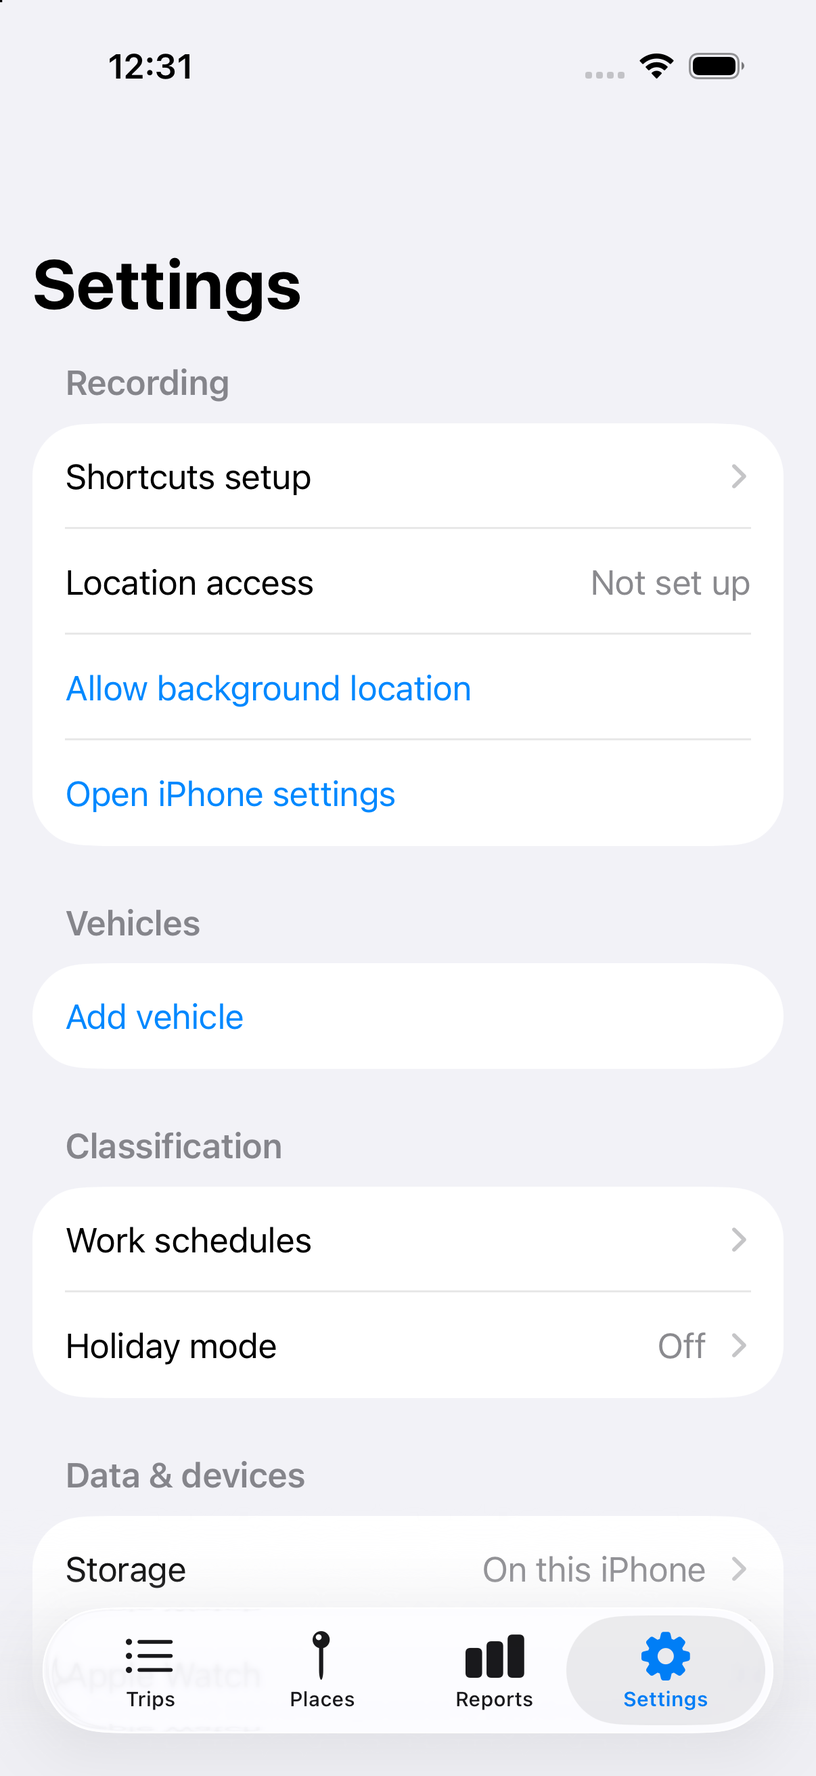
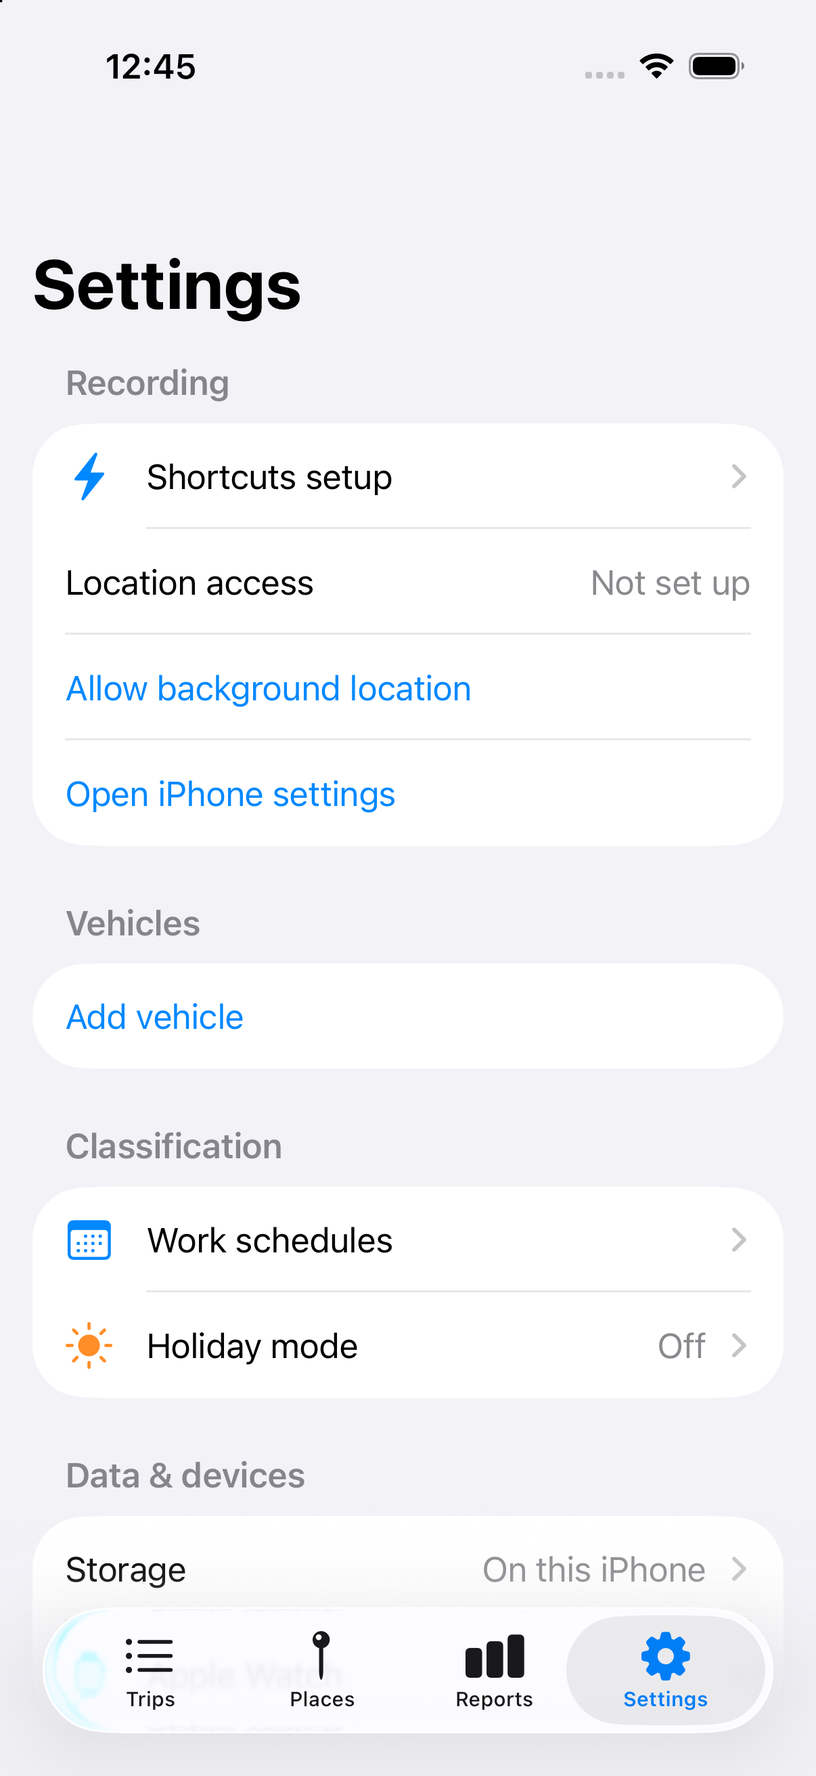
Add vehicle dashboard, route previews and purpose colors

diff --git a/Ritme/Sources/TripsView.swift b/Ritme/Sources/TripsView.swift
@@ -8,6 +8,7 @@ struct TripsView: View {
     @State private var search = ""
     @State private var showingSearch = false
     @State private var manual = false
+    @State private var addVehicle = false
     @State private var confirmStop = false
     private var visible: [Trip] {
         store.trips.filter { trip in
@@ -31,12 +32,15 @@ struct TripsView: View {
                     }
                 }
                 Section {
-                    recordingStatus
-                    HStack(spacing: 24) {
-                        total("Today", meters: todayTrips.reduce(0) { $0 + $1.distanceMeters })
+                    VStack(alignment: .leading, spacing: 16) {
+                        recordingStatus
                         Divider()
-                        total("Work", meters: todayTrips.filter { $0.kind == .work }.reduce(0) { $0 + $1.distanceMeters })
-                    }.padding(.vertical, 4)
+                        HStack(spacing: 24) {
+                            total("Today", meters: todayTrips.reduce(0) { $0 + $1.distanceMeters })
+                            total("Work today", meters: todayTrips.filter { $0.kind == .work }.reduce(0) { $0 + $1.distanceMeters })
+                        }
+                    }.padding(.vertical, 6)
+                        .listRowBackground(Style.accent.opacity(0.07))
                 }
                 if store.preferences.holidayActive {
                     Section {
@@ -72,7 +76,7 @@ struct TripsView: View {
                     Section {
                         ForEach(visible.filter { Calendar.current.isDate($0.startedAt, inSameDayAs: day) }) { trip in
                             VStack(alignment: .leading, spacing: 10) {
-                                NavigationLink { TripDetailView(trip: trip) } label: { TripSummary(trip: trip) }
+                                NavigationLink { TripDetailView(trip: trip) } label: { TripSummary(trip: trip, showRoute: trip.id == visible.first?.id) }
                                 if trip.kind == .unclassified { KindButtons(selected: trip.kind) { store.mark(trip, as: $0) } }
                             }.padding(.vertical, 4)
                                 .swipeActions(edge: .leading, allowsFullSwipe: false) {
@@ -89,22 +93,54 @@ struct TripsView: View {
                 ToolbarItem(placement: .topBarTrailing) { Button { manual = true } label: { Image(systemName: "plus") }.accessibilityLabel("Add a manual trip") }
             }
             .sheet(isPresented: $manual) { ManualTripView() }
+            .sheet(isPresented: $addVehicle) { AddVehicleView() }
             .confirmationDialog("Finish this trip?", isPresented: $confirmStop, titleVisibility: .visible) { Button("Finish and save") { recorder.stop() } }
         }
     }
     private var recordingStatus: some View {
-        VStack(alignment: .leading, spacing: 12) {
+        VStack(alignment: .leading, spacing: 16) {
             HStack(spacing: 12) {
-                Circle().fill(store.activeTrip == nil ? Color.secondary : Style.accent).frame(width: 7, height: 7).accessibilityHidden(true)
-                VStack(alignment: .leading, spacing: 3) {
-                    Text(store.activeTrip == nil ? "Not recording" : "Trip in progress").font(.subheadline.weight(.semibold))
-                    Text(store.selectedVehicle?.name ?? "No vehicle selected").font(.caption).foregroundStyle(.secondary)
+                PlaceSymbol(symbol: "car.fill")
+                VStack(alignment: .leading, spacing: 4) {
+                    Text(store.activeTrip == nil ? "CURRENT VEHICLE" : "RECORDING")
+                        .font(.caption2.weight(.semibold)).tracking(0.8).foregroundStyle(.secondary)
+                    if let active = store.activeTrip {
+                        Text(store.vehicleName(for: active)).font(.headline)
+                    } else if let vehicle = store.selectedVehicle {
+                        Menu {
+                            ForEach(store.vehicles) { vehicle in
+                                Button {
+                                    store.preferences.selectedVehicleID = vehicle.id; store.save()
+                                } label: {
+                                    if vehicle.id == store.selectedVehicle?.id { Label(vehicle.name, systemImage: "checkmark") }
+                                    else { Text(vehicle.name) }
+                                }
+                            }
+                            Button("Add vehicle", systemImage: "plus") { addVehicle = true }
+                        } label: {
+                            HStack(spacing: 5) {
+                                Text(vehicle.name).font(.headline).foregroundStyle(.primary).lineLimit(1)
+                                Image(systemName: "chevron.down").font(.caption2.weight(.semibold)).foregroundStyle(Style.accent)
+                            }
+                        }
+                        .buttonStyle(.borderless).accessibilityLabel("Select vehicle, current vehicle \(vehicle.name)")
+                    } else {
+                        Button("Add your car") { addVehicle = true }.font(.headline).buttonStyle(.borderless)
+                    }
                 }
+                Spacer(minLength: 0)
+            }
+            HStack {
+                HStack(spacing: 6) {
+                    Circle().fill(store.activeTrip == nil ? Color.secondary : Color.green).frame(width: 6, height: 6)
+                    Text(store.activeTrip == nil ? "Not recording" : "Trip in progress").font(.subheadline).foregroundStyle(.secondary)
+                }.accessibilityElement(children: .combine)
                 Spacer()
                 if store.activeTrip == nil {
-                    Button("Start") { recorder.start() }.buttonStyle(.bordered).accessibilityLabel("Start recording a trip").accessibilityIdentifier("startTrip")
+                    Button { recorder.start() } label: { Label("Start trip", systemImage: "play.fill").font(.subheadline.weight(.semibold)) }
+                        .buttonStyle(.borderedProminent).accessibilityLabel("Start recording a trip").accessibilityIdentifier("startTrip")
                 } else {
-                    Button("Finish") { confirmStop = true }.buttonStyle(.bordered).accessibilityLabel("Finish recording this trip")
+                    Button("Finish trip") { confirmStop = true }.buttonStyle(.borderedProminent).accessibilityLabel("Finish recording this trip")
                 }
             }
             if let trip = store.activeTrip {
@@ -112,14 +148,14 @@ struct TripsView: View {
                     Text("\(Format.km(trip.distanceMeters)) km").monospacedDigit()
                     Spacer()
                     TimelineView(.periodic(from: .now, by: 60)) { _ in Text(Format.duration(trip.duration)).monospacedDigit() }
-                }.font(.subheadline)
+                }.font(.title3.weight(.semibold))
                 HStack {
                     Text(recorder.status).font(.caption).foregroundStyle(.secondary)
                     Spacer()
                     Button("Resume GPS") { recorder.resume() }.font(.caption).buttonStyle(.borderless)
                 }
             }
-        }.padding(.vertical, 3)
+        }
     }
     private func total(_ title: String, meters: Double) -> some View {
         VStack(alignment: .leading, spacing: 3) {
@@ -136,6 +172,14 @@ struct TripsView: View {
 
 struct TripSummary: View {
     var trip: Trip
+    var showRoute = false
+    private var previewRect: MKMapRect {
+        let rect = trip.points.map { point in
+            let position = MKMapPoint(point.coordinate)
+            return MKMapRect(x: position.x, y: position.y, width: 1, height: 1)
+        }.reduce(MKMapRect.null) { $0.union($1) }
+        return rect.insetBy(dx: -max(rect.size.width * 0.2, 500), dy: -max(rect.size.height * 0.2, 500))
+    }
     var body: some View {
         VStack(alignment: .leading, spacing: 8) {
             HStack {
@@ -145,14 +189,22 @@ struct TripSummary: View {
                 KindBadge(kind: trip.kind)
             }
             HStack(alignment: .top, spacing: 12) {
-                VStack(alignment: .leading, spacing: 5) {
-                    Text(trip.origin).font(.subheadline).foregroundStyle(.secondary)
-                    Text(trip.destination).font(.body.weight(.medium))
-                }.lineLimit(2).frame(maxWidth: .infinity, alignment: .leading)
+                RouteStops(origin: trip.origin, destination: trip.destination, color: Style.color(trip.kind))
+                    .frame(maxWidth: .infinity, alignment: .leading)
                 VStack(alignment: .trailing, spacing: 5) {
                     Text("\(Format.km(trip.distanceMeters)) km").font(.subheadline.weight(.semibold)).monospacedDigit()
                     Text(Format.duration(trip.duration)).font(.caption).foregroundStyle(.secondary)
                 }.fixedSize(horizontal: true, vertical: false)
+            }
+            if showRoute && !trip.points.isEmpty {
+                Map(initialPosition: .rect(previewRect)) {
+                    MapPolyline(coordinates: trip.points.map(\.coordinate)).stroke(Style.accent, lineWidth: 3)
+                    if let first = trip.points.first { Annotation("", coordinate: first.coordinate) { Circle().fill(.white).frame(width: 9, height: 9).overlay(Circle().stroke(Style.accent, lineWidth: 2)) } }
+                    if let last = trip.points.last { Annotation("", coordinate: last.coordinate) { Circle().fill(Style.accent).frame(width: 10, height: 10).overlay(Circle().stroke(.white, lineWidth: 2)) } }
+                }.mapStyle(.standard(elevation: .flat, pointsOfInterest: .excludingAll))
+                    .mapControlVisibility(.hidden).frame(height: 90)
+                    .clipShape(RoundedRectangle(cornerRadius: 10)).allowsHitTesting(false)
+                    .accessibilityHidden(true)
             }
         }.accessibilityElement(children: .combine)
     }

diff --git a/Ritme/Sources/SettingsView.swift b/Ritme/Sources/SettingsView.swift
@@ -10,7 +10,7 @@ struct SettingsView: View {
         NavigationStack {
             Form {
                 Section("Recording") {
-                    NavigationLink("Shortcuts setup") { AutomationSetupView() }
+                    NavigationLink { AutomationSetupView() } label: { Label { Text("Shortcuts setup") } icon: { Image(systemName: "bolt.fill").foregroundStyle(Style.accent) } }
                     LabeledContent("Location access", value: locationTitle)
                     Button("Allow background location") { recorder.requestAlways() }
                     Button("Open iPhone settings") { if let url = URL(string: UIApplication.openSettingsURLString) { UIApplication.shared.open(url) } }
@@ -24,19 +24,19 @@ struct SettingsView: View {
                     Button("Add vehicle") { addVehicle = true }
                 }
                 Section("Classification") {
-                    NavigationLink("Work schedules") { RulesView() }
-                    NavigationLink { HolidayView() } label: { LabeledContent("Holiday mode", value: store.preferences.holidayActive ? "On" : "Off") }
+                    NavigationLink { RulesView() } label: { Label { Text("Work schedules") } icon: { Image(systemName: "calendar").foregroundStyle(Style.accent) } }
+                    NavigationLink { HolidayView() } label: { LabeledContent { Text(store.preferences.holidayActive ? "On" : "Off") } label: { Label { Text("Holiday mode") } icon: { Image(systemName: "sun.max.fill").foregroundStyle(.orange) } } }
                 }
                 Section("Data & devices") {
                     NavigationLink { DataSettingsView() } label: { LabeledContent("Storage", value: store.cloudEnabled ? "iCloud" : "On this iPhone") }
-                    NavigationLink("Apple Watch") { WatchSettingsView() }
+                    NavigationLink { WatchSettingsView() } label: { Label { Text("Apple Watch") } icon: { Image(systemName: "applewatch").foregroundStyle(Style.accent) } }
                 }
                 Section {
                     Button("Load sample trips") { store.loadDemo() }.disabled(store.trips.contains(where: \.isDemo))
                     if store.trips.contains(where: \.isDemo) { Button("Remove sample trips") { store.deleteDemo() } }
                 } header: { Text("Sample data") } footer: { Text("Sample trips are excluded from mileage totals and exports.") }
                 Section {
-                    LabeledContent("Version", value: "0.1.0 (1)")
+                    LabeledContent("Version", value: "\(Bundle.main.object(forInfoDictionaryKey: "CFBundleShortVersionString") as? String ?? "—") (\(Bundle.main.object(forInfoDictionaryKey: "CFBundleVersion") as? String ?? "—"))")
                     Link("GitHub", destination: URL(string: "https://github.com/MiranoVerhoef/Ritme")!)
                 } header: { Text("Ritme") } footer: { Text("Development beta") }
             }.navigationTitle("Settings").sheet(isPresented: $addVehicle) { AddVehicleView() }

diff --git a/Ritme/Sources/Design.swift b/Ritme/Sources/Design.swift
@@ -3,7 +3,13 @@ import SwiftUI
 enum Style {
     static let accent = Color(uiColor: .systemBlue)
     static let canvas = Color(uiColor: .systemGroupedBackground)
-    static func color(_ kind: TripKind) -> Color { kind == .unclassified ? Color(uiColor: .systemOrange) : .secondary }
+    static func color(_ kind: TripKind) -> Color {
+        switch kind {
+        case .work: Color(uiColor: .systemBlue)
+        case .personal: Color(uiColor: .systemTeal)
+        case .unclassified: Color(uiColor: .systemOrange)
+        }
+    }
 }
 
 struct Card<Content: View>: View {
@@ -18,8 +24,10 @@ struct Card<Content: View>: View {
 struct KindBadge: View {
     var kind: TripKind
     var body: some View {
-        Label(kind.title, systemImage: kind.icon).font(.caption)
+        Label(kind.title, systemImage: kind.icon).font(.caption.weight(.medium))
             .foregroundStyle(Style.color(kind))
+            .padding(.horizontal, 8).padding(.vertical, 5)
+            .background(Style.color(kind).opacity(0.10), in: Capsule())
     }
 }
 
@@ -43,8 +51,38 @@ struct KindButtons: View {
                         Text(kind.title)
                         if selected == kind { Image(systemName: "checkmark").font(.caption.weight(.semibold)) }
                     }.font(.subheadline).frame(maxWidth: .infinity, minHeight: 30)
-                }.buttonStyle(.bordered).tint(selected == kind ? Style.accent : Color.secondary)
+                }.buttonStyle(.bordered).tint(Style.color(kind))
             }
+        }
+    }
+}
+
+struct PlaceSymbol: View {
+    var symbol: String
+    var color: Color = Style.accent
+    var body: some View {
+        Image(systemName: symbol).font(.system(size: 19, weight: .medium))
+            .foregroundStyle(color).frame(width: 42, height: 42)
+            .background(color.opacity(0.10), in: RoundedRectangle(cornerRadius: 12))
+            .accessibilityHidden(true)
+    }
+}
+
+struct RouteStops: View {
+    var origin: String
+    var destination: String
+    var color: Color
+    var body: some View {
+        HStack(spacing: 10) {
+            VStack(spacing: 3) {
+                Circle().strokeBorder(Color.secondary, lineWidth: 1.5).frame(width: 7, height: 7)
+                Rectangle().fill(Color.secondary.opacity(0.25)).frame(width: 1, height: 17)
+                Circle().fill(color).frame(width: 7, height: 7)
+            }.accessibilityHidden(true)
+            VStack(alignment: .leading, spacing: 7) {
+                Text(origin).font(.subheadline).foregroundStyle(.secondary)
+                Text(destination).font(.body.weight(.medium))
+            }.lineLimit(2)
         }
     }
 }

diff --git a/Ritme/Sources/ReportsView.swift b/Ritme/Sources/ReportsView.swift
@@ -80,14 +80,33 @@ struct ReportsView: View {
                     HStack(alignment: .firstTextBaseline) {
                         VStack(alignment: .leading, spacing: 4) {
                             Text("Total distance").font(.subheadline).foregroundStyle(.secondary)
-                            Text("\(Format.km(trips.reduce(0) { $0 + $1.distanceMeters })) km").font(.title2.weight(.semibold)).monospacedDigit()
+                            Text("\(Format.km(trips.reduce(0) { $0 + $1.distanceMeters })) km").font(.largeTitle.weight(.semibold)).monospacedDigit().foregroundStyle(Style.accent)
                         }
                         Spacer()
                         Text("\(trips.count) trips").font(.subheadline).foregroundStyle(.secondary)
                     }.padding(.vertical, 4)
+                    let distance = trips.reduce(0) { $0 + $1.distanceMeters }
+                    if distance > 0 {
+                        GeometryReader { geometry in
+                            HStack(spacing: 2) {
+                                ForEach(TripKind.allCases) { kind in
+                                    let fraction = trips.filter { $0.kind == kind }.reduce(0) { $0 + $1.distanceMeters } / distance
+                                    if fraction > 0 {
+                                        RoundedRectangle(cornerRadius: 3).fill(Style.color(kind))
+                                            .frame(width: max(0, geometry.size.width - 4) * fraction)
+                                    }
+                                }
+                            }
+                        }.frame(height: 9).accessibilityHidden(true)
+                            .listRowSeparator(.hidden)
+                    }
                     ForEach(TripKind.allCases) { kind in
-                        LabeledContent(kind.title, value: "\(Format.km(trips.filter { $0.kind == kind }.reduce(0) { $0 + $1.distanceMeters })) km")
-                            .monospacedDigit()
+                        HStack {
+                            KindBadge(kind: kind)
+                            Spacer()
+                            Text("\(Format.km(trips.filter { $0.kind == kind }.reduce(0) { $0 + $1.distanceMeters })) km")
+                                .monospacedDigit().foregroundStyle(.secondary)
+                        }
                     }
                 }
                 Section {

diff --git a/Ritme/Sources/PlacesView.swift b/Ritme/Sources/PlacesView.swift
@@ -9,8 +9,13 @@ struct PlacesView: View {
             List {
                 Section {
                     if store.places.isEmpty {
-                        VStack(alignment: .leading, spacing: 8) {
-                            Text("No saved places").font(.headline)
+                        VStack(alignment: .leading, spacing: 12) {
+                            HStack(spacing: 8) {
+                                PlaceSymbol(symbol: "house.fill", color: Style.color(.personal))
+                                PlaceSymbol(symbol: "building.2.fill")
+                                PlaceSymbol(symbol: "mappin", color: .orange)
+                            }
+                            Text("Your regular destinations").font(.headline)
                             Text("Add Home, Office, or a regular destination.").font(.subheadline).foregroundStyle(.secondary)
                             Button("Add place") { adding = true }.padding(.top, 4)
                         }.padding(.vertical, 12)
@@ -18,7 +23,7 @@ struct PlacesView: View {
                     ForEach(store.places) { place in
                         NavigationLink { PlaceDetail(place: place) } label: {
                             HStack(spacing: 12) {
-                                Image(systemName: place.icon).foregroundStyle(.secondary).frame(width: 24)
+                                PlaceSymbol(symbol: place.icon, color: place.icon == "house.fill" ? Style.color(.personal) : Style.accent)
                                 VStack(alignment: .leading, spacing: 4) {
                                     Text(place.name)
                                     Text(place.address).font(.caption).foregroundStyle(.secondary).lineLimit(2)

diff --git a/Scripts/generate_altstore_source.py b/Scripts/generate_altstore_source.py
@@ -10,6 +10,7 @@ from pathlib import Path
 parser = argparse.ArgumentParser(description=__doc__)
 parser.add_argument('ipa', type=Path)
 parser.add_argument('--date', default=datetime.date.today().isoformat())
+parser.add_argument('--release-notes', default='Native trip dashboard, route previews, colored purposes, schedules, exports and guided Shortcuts setup. Local storage; iPhone-only unsigned sideload package.')
 args = parser.parse_args()
 datetime.date.fromisoformat(args.date)
 with zipfile.ZipFile(args.ipa) as archive:
@@ -35,7 +36,7 @@ source = {
         'screenshots': [{'imageURL': f'{raw}/Preview/{name}.png', 'width': 1206, 'height': 2622} for name in ['trips', 'places', 'reports', 'settings']],
         'versions': [{
             'version': version, 'buildVersion': info['CFBundleVersion'], 'date': args.date,
-            'localizedDescription': 'First development beta. Native list and form layouts, trip recording, places, work rules, holiday mode, exports, and guided Shortcuts setup. Local storage; iPhone-only unsigned sideload package.',
+            'localizedDescription': args.release_notes,
             'downloadURL': f'{release}/{args.ipa.name}', 'size': args.ipa.stat().st_size,
             'minOSVersion': info['MinimumOSVersion']
         }],
@@ -45,5 +46,10 @@ source = {
         }
     }], 'news': []
 }
+feed_path = Path('altstore-source.json')
+if feed_path.exists():
+    previous = json.loads(feed_path.read_text())
+    previous_app = next((app for app in previous.get('apps', []) if app.get('bundleIdentifier') == info['CFBundleIdentifier']), {})
+    source['apps'][0]['versions'].extend(entry for entry in previous_app.get('versions', []) if entry.get('version') != version)
 Path('altstore-source.json').write_text(json.dumps(source, indent=2) + '\n')
 print('Generated altstore-source.json from', args.ipa)

diff --git a/Distribution/README.md b/Distribution/README.md
@@ -14,7 +14,7 @@ https://raw.githubusercontent.com/MiranoVerhoef/Ritme/main/altstore-source.json
 
 Choose **Ritme** from the source and install it. Availability of third-party sources depends on your installer and version. The feed includes the exact version, build, IPA byte count, minimum iOS version, screenshots, and location permission descriptions.
 
-Alternatively, download `Ritme-v0.1.0.ipa` from the [GitHub release](https://github.com/MiranoVerhoef/Ritme/releases/tag/v0.1.0), then import it into your sideloading app. The IPA is unsigned; your installer must sign it for your iPhone. With a free Apple account, AltStore Classic installations normally expire after seven days and require refreshing. See the [official AltStore Classic guide](https://faq.altstore.io/altstore-classic/your-altstore) for signing, refresh, and account limits.
+Alternatively, download `Ritme-v0.1.1.ipa` from the [GitHub release](https://github.com/MiranoVerhoef/Ritme/releases/tag/v0.1.1), then import it into your sideloading app. The IPA is unsigned; your installer must sign it for your iPhone. With a free Apple account, AltStore Classic installations normally expire after seven days and require refreshing. See the [official AltStore Classic guide](https://faq.altstore.io/altstore-classic/your-altstore) for signing, refresh, and account limits.
 
 ## What this package includes
 
@@ -38,7 +38,7 @@ xcodebuild -project Ritme.xcodeproj -scheme Ritme -configuration Release \
   -destination 'generic/platform=iOS' -derivedDataPath build/ReleaseDerivedData \
   CODE_SIGNING_ALLOWED=NO build
 python3 Scripts/package_release.py
-python3 Scripts/generate_altstore_source.py build/releases/Ritme-v0.1.0.ipa --date 2026-09-30
+python3 Scripts/generate_altstore_source.py build/releases/Ritme-v0.1.1.ipa --date 2026-09-30
 ```
 
 Update the version/build in the iPhone and Watch Info.plists before a new version. Use that version's IPA filename and release date in the feed command. The packaging script checks the device platform, copies the unsigned build, and removes Watch content only from the distribution copy. Upload the IPA to the matching GitHub release; keep the source feed's download URL and file size consistent with the uploaded asset. Preserve previous version entries when adding future releases.

diff --git a/README.md b/README.md
@@ -1,6 +1,6 @@
 # Ritme
 
-A native iPhone mileage logger with trip recording, Work/Private classification, saved places, work schedules, holiday mode and mileage exports. Built with SwiftUI and SwiftData, using native lists, standard navigation and a restrained interface. **Ritme is a working name.** All code and artwork are original.
+A native iPhone mileage logger with trip recording, Work/Private classification, saved places, work schedules, holiday mode and mileage exports. Built with SwiftUI and SwiftData, using native navigation, a tinted vehicle dashboard, colored purpose labels and a latest-trip route preview. **Ritme is a working name.** All code and artwork are original.
 
 ## Install the development beta
 
